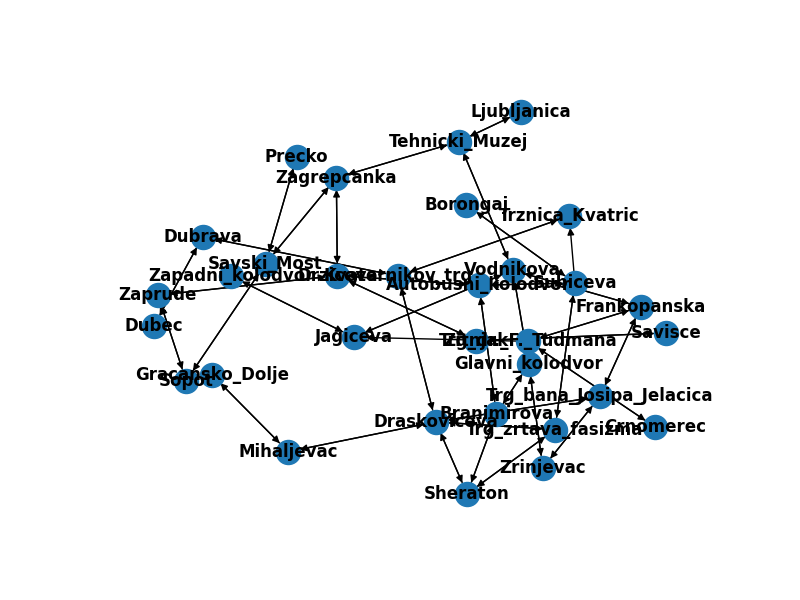
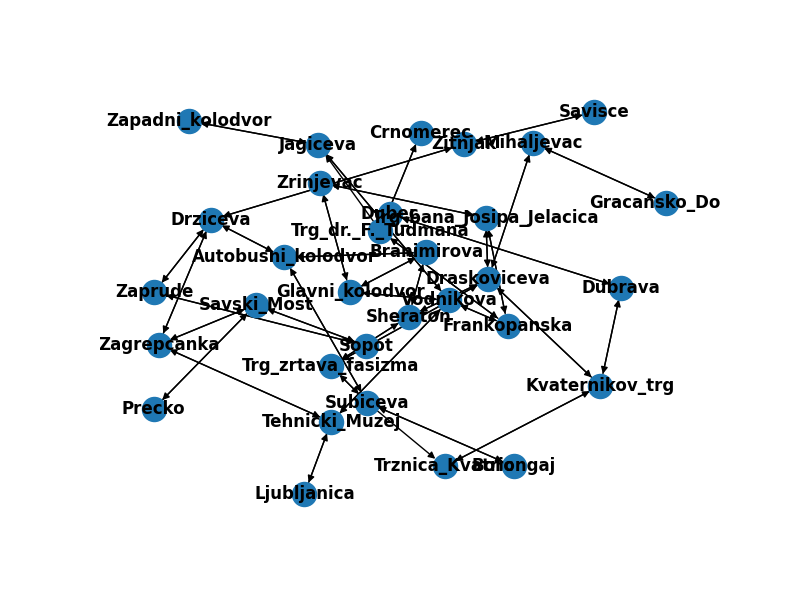
popravak GN algoritam... sada je uvijek isti raspored cvorova

Changed region(s): [[0.125, 0.15, 0.9062, 0.84], [0.7188, 0.27, 0.75, 0.3]]

diff --git a/sveWebStranica/public/scripts/girvanNewman/algoritam.py b/sveWebStranica/public/scripts/girvanNewman/algoritam.py
@@ -16,14 +16,15 @@ def brid_za_uklanjanje(GRAF, povezaniPodgrafovi):
 
 def girvan_newman_alg(GRAF, brojZajednica, preskok):
     brSlika = 1
-    viz.vizualizirajPocetniGraf(GRAF, brSlika)
+    pos = nx.spring_layout(GRAF, k=0.1, seed=42)
+    viz.vizualizirajPocetniGraf(GRAF, brSlika, pos)
     brSlika += 1
     povezaniPodgrafovi = [GRAF.subgraph(c).copy() for c in nx.strongly_connected_components(GRAF)]
     k = 1
     l = len(povezaniPodgrafovi)
     if(l > k):
         if(l % preskok == 0):
-            viz.vizualizirajGraf(GRAF, povezaniPodgrafovi, maxBridovi, l, preskok, 0, brSlika)
+            viz.vizualizirajGraf(GRAF, povezaniPodgrafovi, maxBridovi, l, preskok, 0, brSlika, pos)
             brSlika += 1
             maxBridovi.clear()
         k = l
@@ -34,13 +35,13 @@ def girvan_newman_alg(GRAF, brojZajednica, preskok):
         if(l > k):
             if(l % preskok == 0):
                 jeZadnji = l == brojZajednica
-                viz.vizualizirajGraf(GRAF, povezaniPodgrafovi, maxBridovi, l, preskok, jeZadnji, brSlika)
+                viz.vizualizirajGraf(GRAF, povezaniPodgrafovi, maxBridovi, l, preskok, jeZadnji, brSlika, pos)
                 brSlika += 1
                 maxBridovi.clear()
             k = l
     if(l % preskok != 0):
-        viz.vizualizirajGraf(GRAF, povezaniPodgrafovi, maxBridovi, l, preskok, True, brSlika)
+        viz.vizualizirajGraf(GRAF, povezaniPodgrafovi, maxBridovi, l, preskok, True, brSlika, pos)
         brSlika += 1
         maxBridovi.clear()
-    viz.vizualizirajZavrsniGraf(GRAF, povezaniPodgrafovi, brSlika)
+    viz.vizualizirajZavrsniGraf(GRAF, povezaniPodgrafovi, brSlika, pos)
     return

diff --git a/sveWebStranica/public/scripts/girvanNewman/vizualizacija.py b/sveWebStranica/public/scripts/girvanNewman/vizualizacija.py
@@ -3,20 +3,14 @@ import matplotlib.pyplot as plt, networkx as nx, numpy as np, random
 seed = 0
 boje = ['lightblue', 'green', 'orange', 'purple', 'pink', 'cyan', 'yellow', 'brown', 'magenta', 'lime']
 
-def vizualizirajPocetniGraf(GRAF, brSlika):
-    random.seed(seed)
-    np.random.seed(seed)
-    pos = nx.spring_layout(GRAF, k=0.1, seed=42)
+def vizualizirajPocetniGraf(GRAF, brSlika, pos):
     plt.figure(figsize=(12, 12))
     plt.title('POČETAK', fontsize=16, pad=20)
     nx.draw(GRAF, pos, with_labels=True, node_color='lightblue', edge_color='black', node_size=500, font_size=15, font_color="black")
     plt.savefig('public/slike/slika' + str(brSlika) + '.png')
     plt.close()
 
-def vizualizirajZavrsniGraf(GRAF, povezaniPodgrafovi, brSlika):
-    random.seed(seed)
-    np.random.seed(seed)
-    pos = nx.spring_layout(GRAF, k=0.1, seed=42)
+def vizualizirajZavrsniGraf(GRAF, povezaniPodgrafovi, brSlika, pos):
     plt.figure(figsize=(12, 12))
     plt.title('KRAJ', fontsize=16, pad=20)
     bridovi = GRAF.edges()
@@ -31,10 +25,7 @@ def vizualizirajZavrsniGraf(GRAF, povezaniPodgrafovi, brSlika):
     plt.savefig('public/slike/slika' + str(brSlika) + '.png')
     plt.close()
 
-def vizualizirajGraf(GRAF, povezaniPodgrafovi, maxBridovi, l, preskok, jeZadnji, brSlika):
-    random.seed(seed)
-    np.random.seed(seed)
-    pos = nx.spring_layout(GRAF, k=0.1, seed=42)
+def vizualizirajGraf(GRAF, povezaniPodgrafovi, maxBridovi, l, preskok, jeZadnji, brSlika, pos):
     plt.figure(figsize=(12, 12))
     if(l % preskok == 0 and jeZadnji == False):
         plt.title('broj zajednica: ' + str(l), fontsize=16, pad=20)
